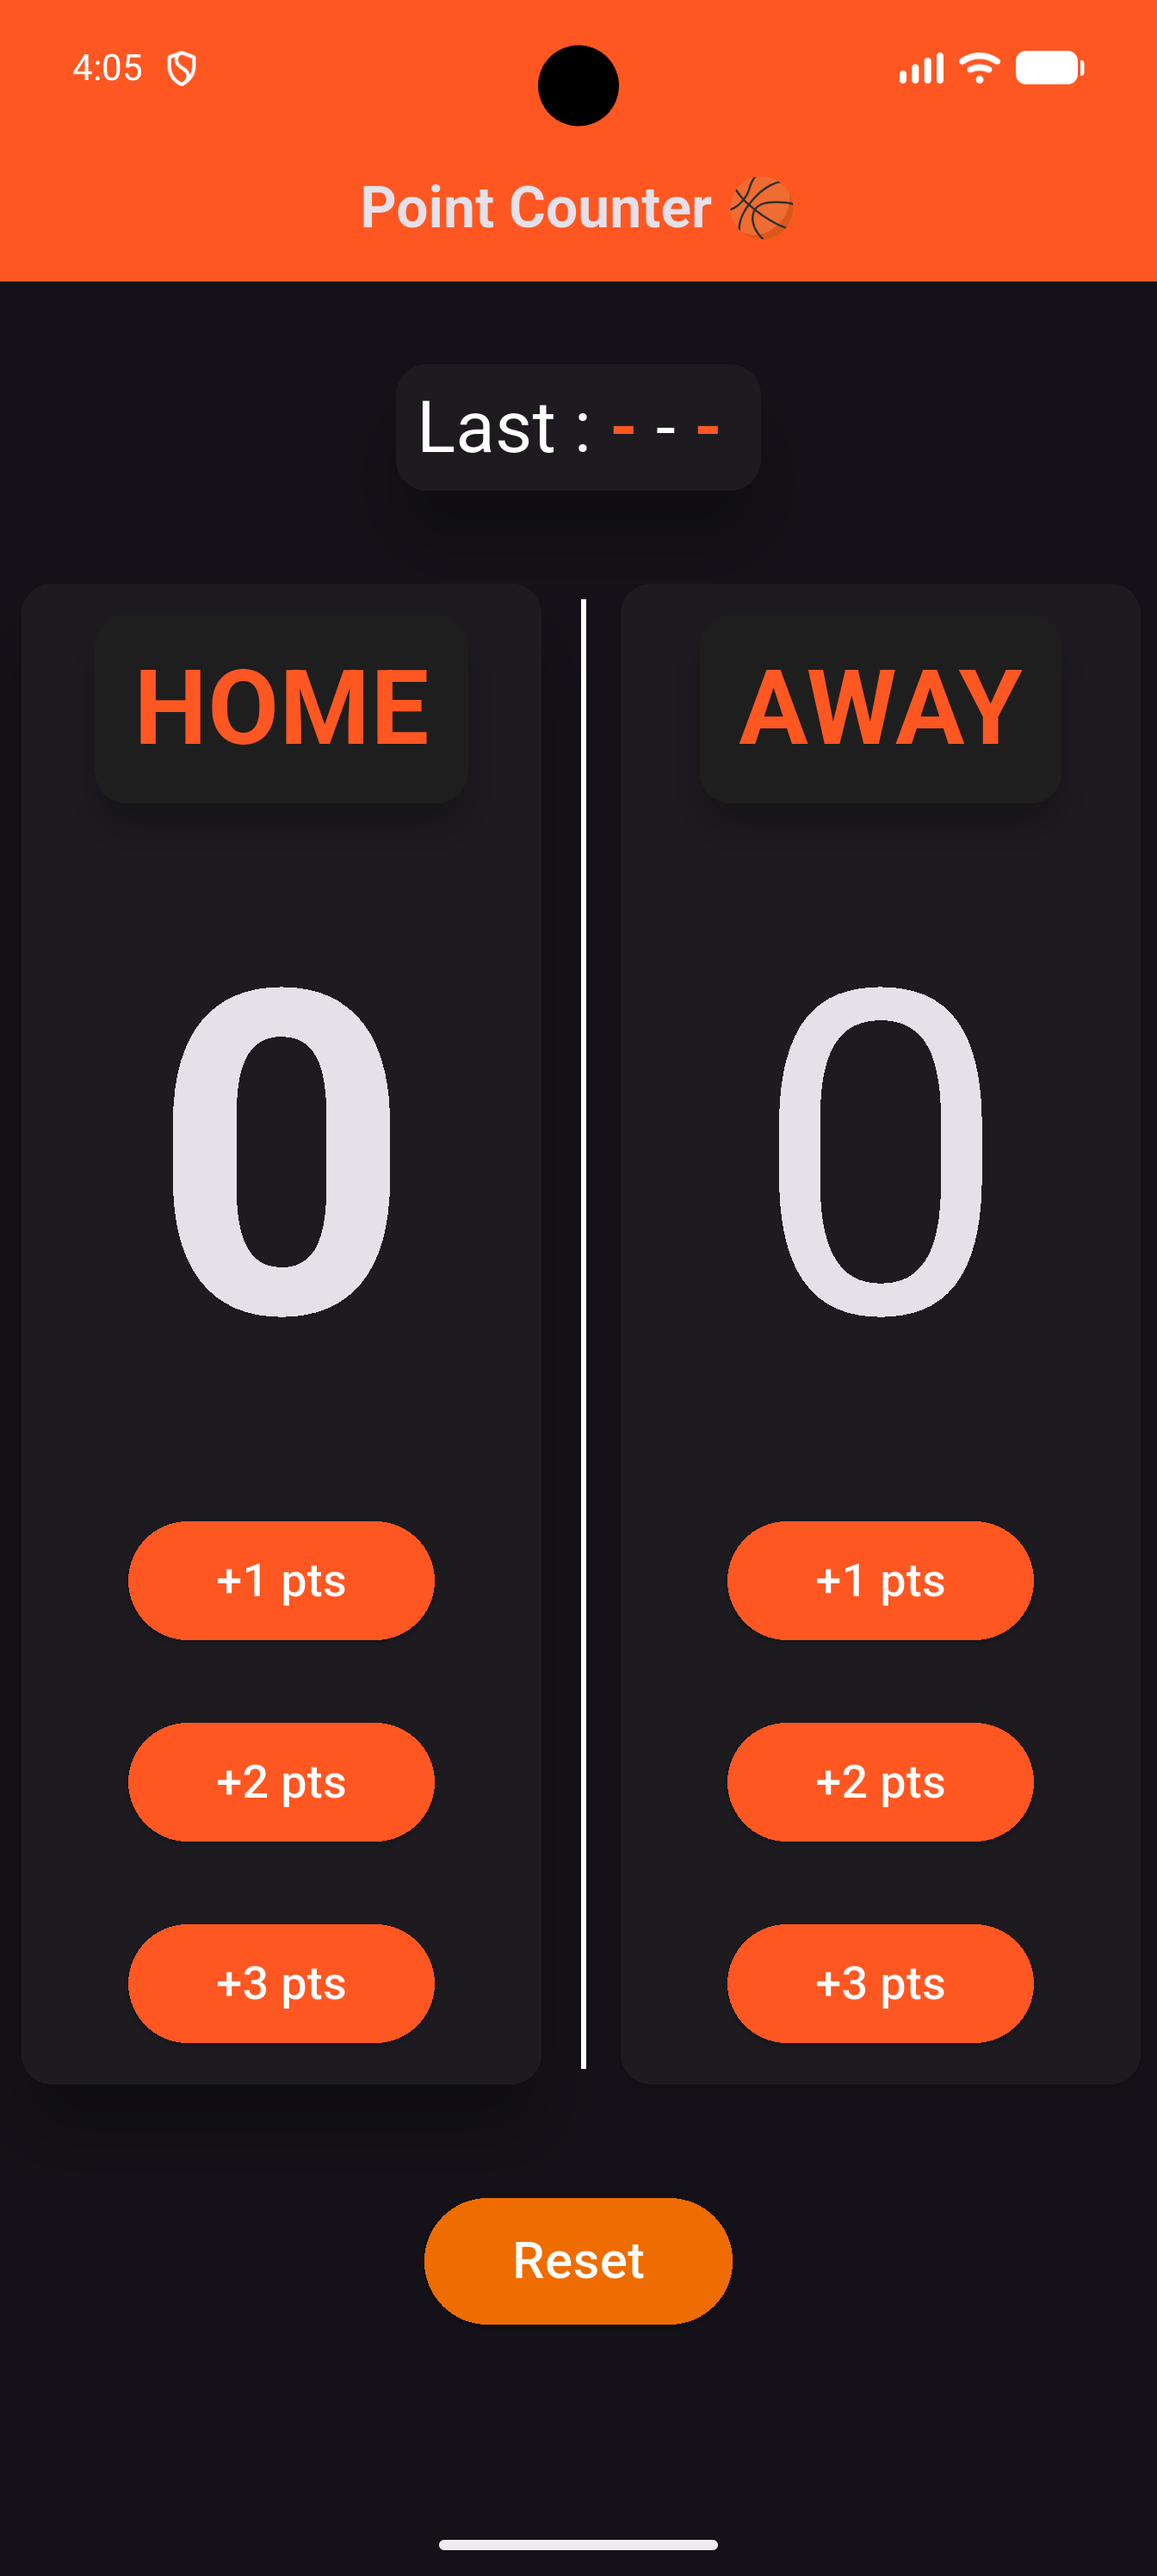
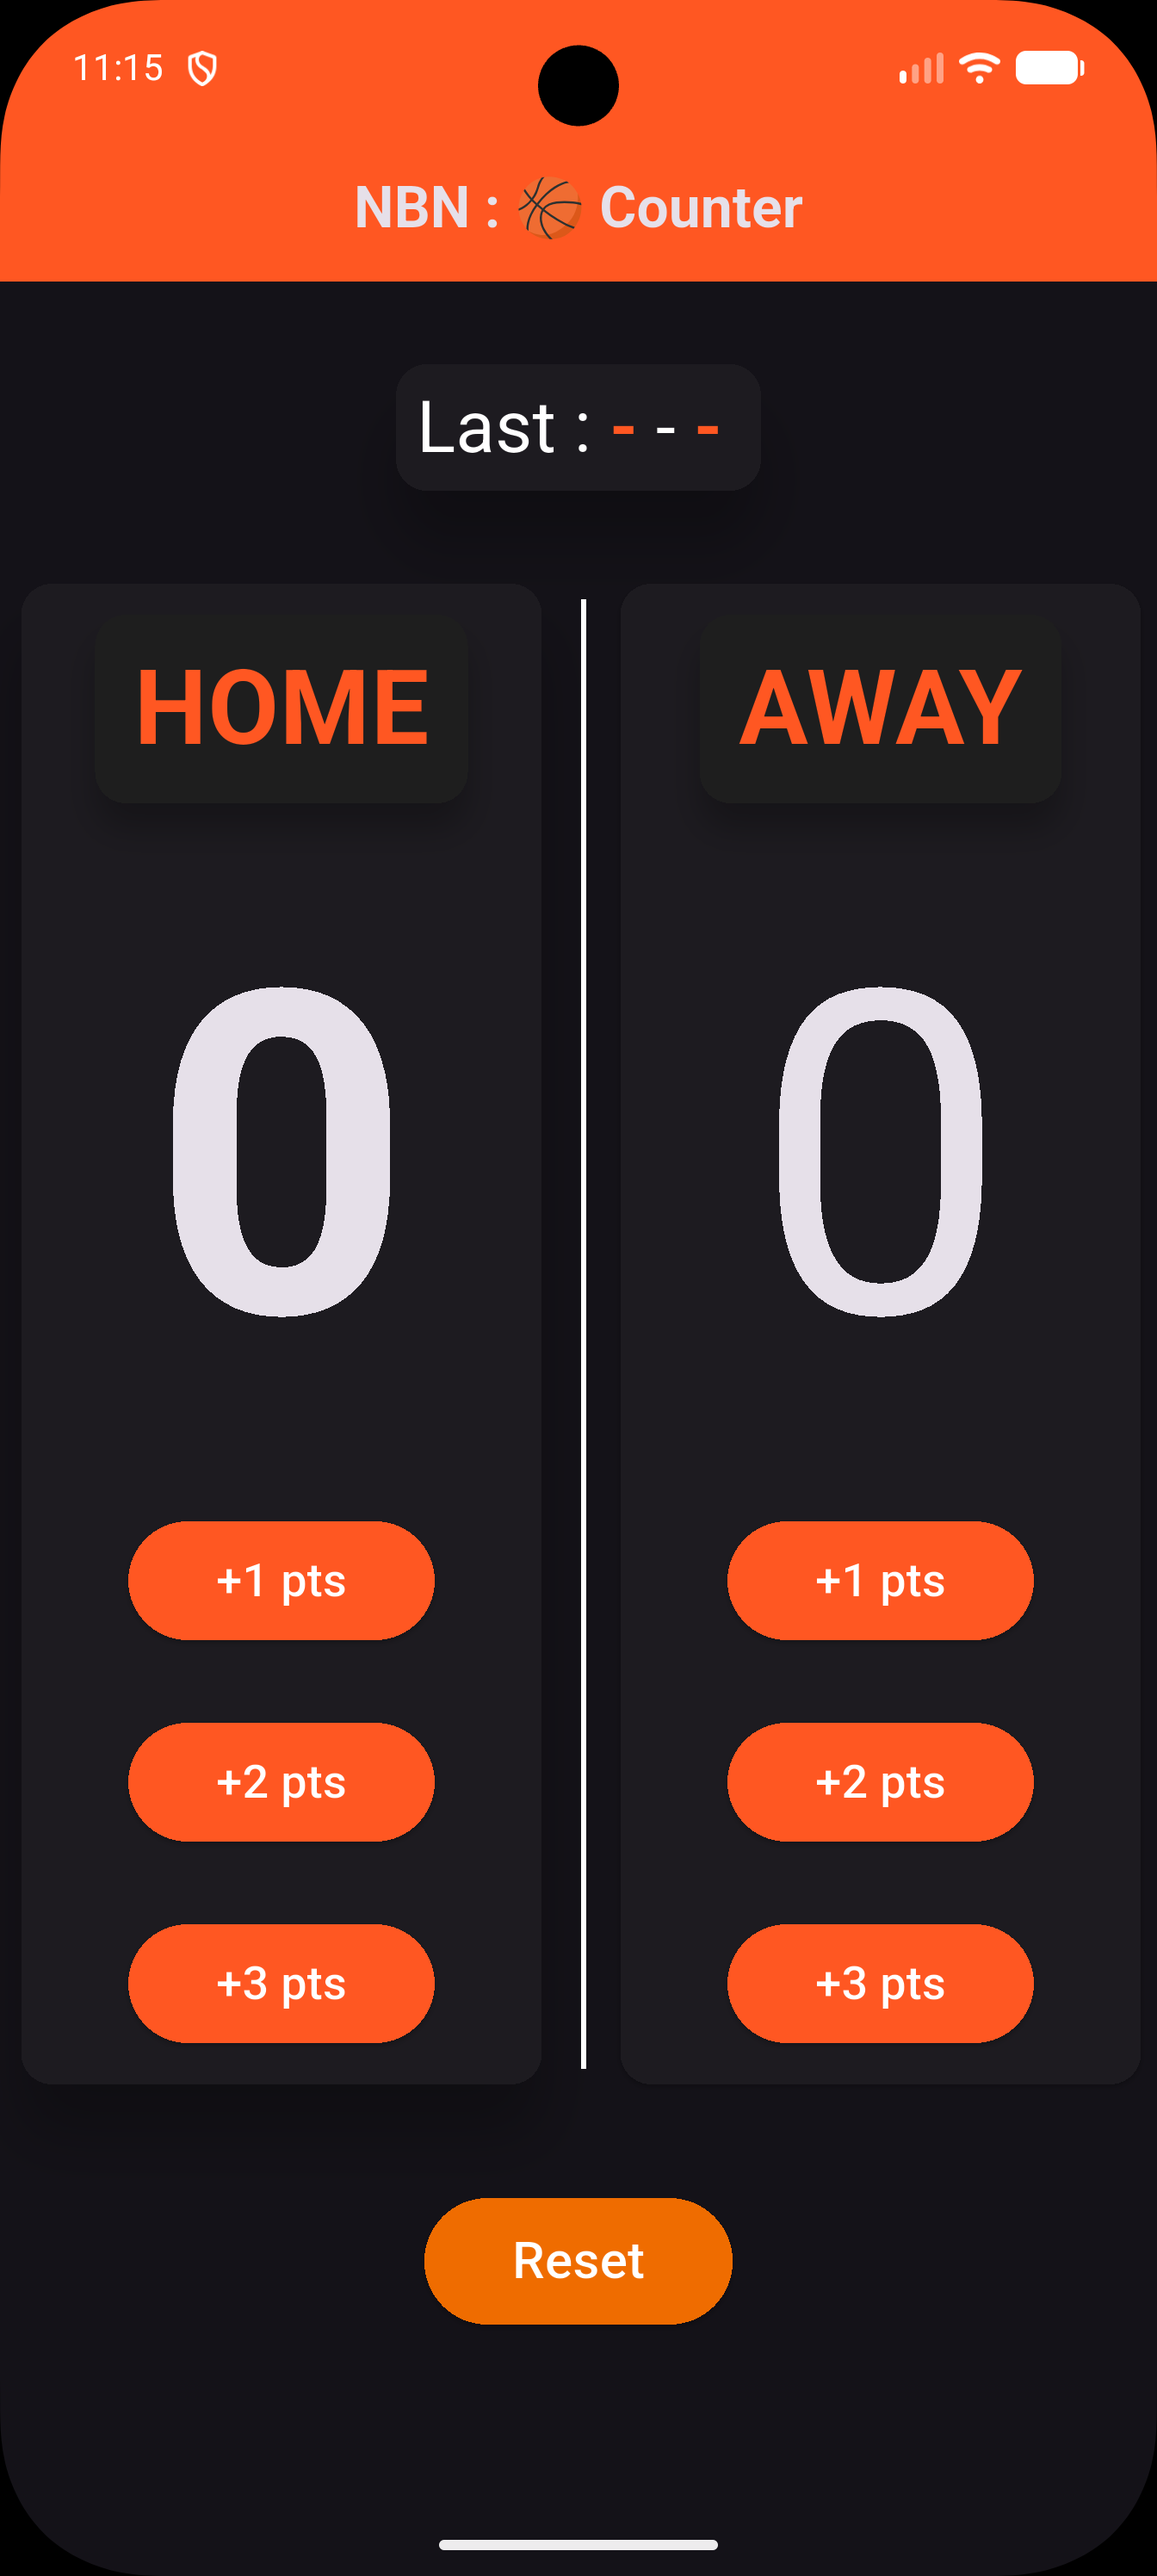
refactor code and update screenshotsfolder

diff --git a/lib/Views/Main_View.dart b/lib/Views/Main_View.dart
@@ -2,6 +2,7 @@ import 'package:flutter/material.dart';
 import 'package:nbn_basketball/helper/constants.dart';
 
 import '../Widgets/Custom_Button.dart';
+import '../Widgets/Custom_Text.dart';
 import '../Widgets/Team_Title.dart';
 
 class MainView extends StatefulWidget {
@@ -36,7 +37,7 @@ class _MainViewState extends State<MainView> {
     return Scaffold(
       appBar: AppBar(
         title: Text(
-          "Point Counter 🏀",
+          "NBN : 🏀 Counter",
           style: TextStyle(fontWeight: FontWeight.bold),
         ),
         backgroundColor: Colors.deepOrange,
@@ -46,47 +47,7 @@ class _MainViewState extends State<MainView> {
       body: SingleChildScrollView(
         child: Column(
           children: [
-            Padding(
-              padding: const EdgeInsets.symmetric(vertical: 20.0),
-              child: Padding(
-                padding: const EdgeInsets.all(8.0),
-                child: Card(
-                  elevation: 20,
-                  child: Padding(
-                    padding: const EdgeInsets.all(8.0),
-                    child: RichText(
-                      text: TextSpan(
-                        style: TextStyle(fontSize: 28),
-                        children: [
-                          TextSpan(
-                            text: "Last : ",
-                            style: TextStyle(color: Colors.white),
-                          ),
-                          TextSpan(
-                            text: lastPoint != 0 ? "+$lastPoint " : "- ",
-                            style: TextStyle(
-                              color: Colors.deepOrange,
-                              fontWeight: FontWeight.bold,
-                            ),
-                          ),
-                          TextSpan(
-                            text: lastPoint != 0 ? "pts " : "- ",
-                            style: TextStyle(color: Colors.white),
-                          ),
-                          TextSpan(
-                            text: lastPoint != 0 ? teamName : "- ",
-                            style: TextStyle(
-                              color: Colors.deepOrange,
-                              fontWeight: FontWeight.bold,
-                            ),
-                          ),
-                        ],
-                      ),
-                    ),
-                  ),
-                ),
-              ),
-            ),
+            CustomText(lastPoint: lastPoint, teamName: teamName),
             IntrinsicHeight(
               child: Row(
                 mainAxisAlignment: MainAxisAlignment.spaceEvenly,

diff --git a/lib/Widgets/Custom_Text.dart b/lib/Widgets/Custom_Text.dart
@@ -1,0 +1,57 @@
+import 'package:flutter/material.dart';
+
+class CustomText extends StatelessWidget {
+  const CustomText({
+    super.key,
+    required this.lastPoint,
+    required this.teamName,
+  });
+
+  final int lastPoint;
+  final String? teamName;
+
+  @override
+  Widget build(BuildContext context) {
+    return Padding(
+      padding: const EdgeInsets.symmetric(vertical: 20.0),
+      child: Padding(
+        padding: const EdgeInsets.all(8.0),
+        child: Card(
+          elevation: 20,
+          child: Padding(
+            padding: const EdgeInsets.all(8.0),
+            child: RichText(
+              text: TextSpan(
+                style: TextStyle(fontSize: 28),
+                children: [
+                  TextSpan(
+                    text: "Last : ",
+                    style: TextStyle(color: Colors.white),
+                  ),
+                  TextSpan(
+                    text: lastPoint != 0 ? "+$lastPoint " : "- ",
+                    style: TextStyle(
+                      color: Colors.deepOrange,
+                      fontWeight: FontWeight.bold,
+                    ),
+                  ),
+                  TextSpan(
+                    text: lastPoint != 0 ? "pts " : "- ",
+                    style: TextStyle(color: Colors.white),
+                  ),
+                  TextSpan(
+                    text: lastPoint != 0 ? teamName : "- ",
+                    style: TextStyle(
+                      color: Colors.deepOrange,
+                      fontWeight: FontWeight.bold,
+                    ),
+                  ),
+                ],
+              ),
+            ),
+          ),
+        ),
+      ),
+    );
+  }
+}
